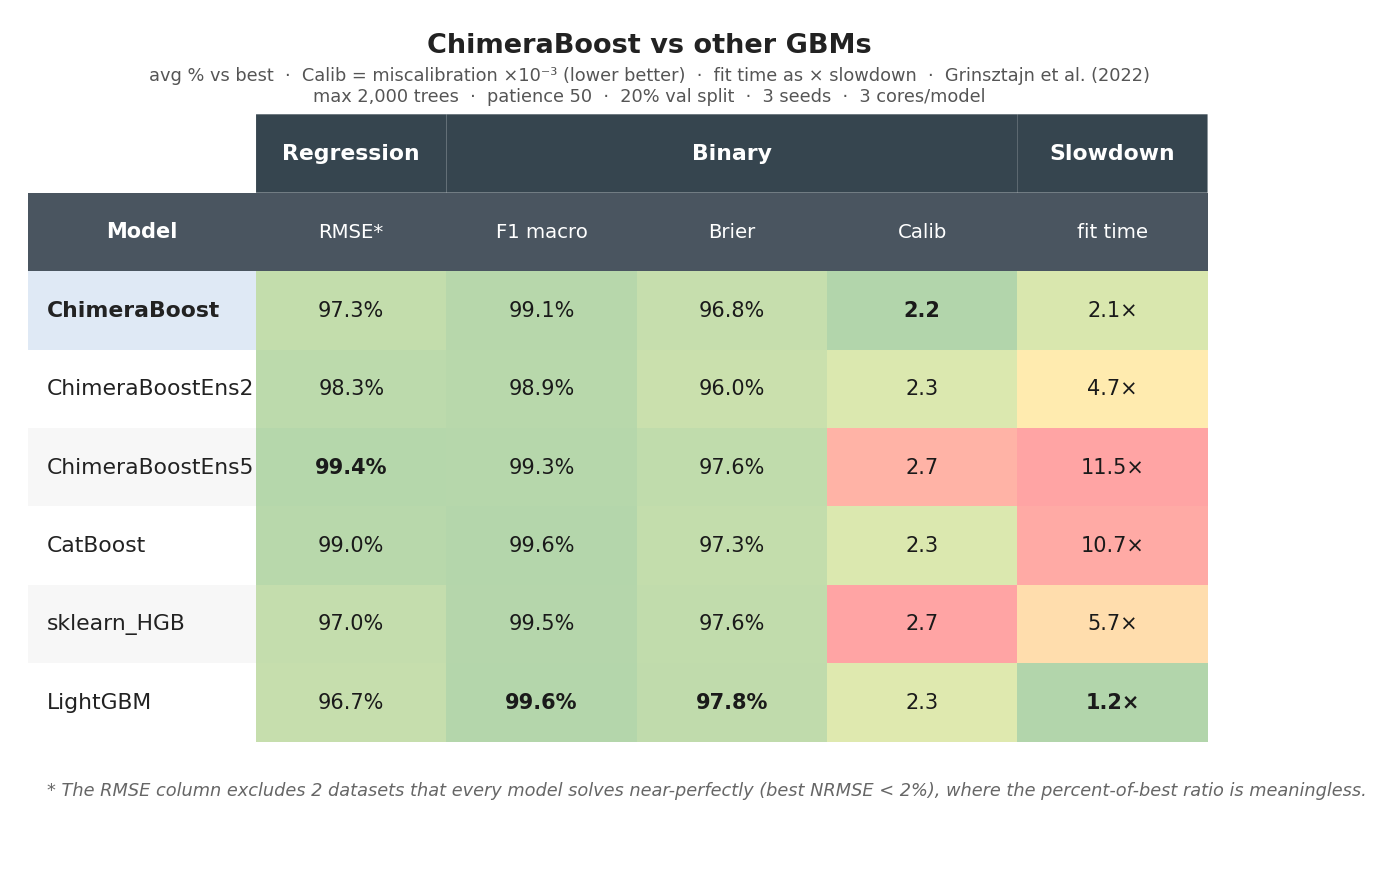
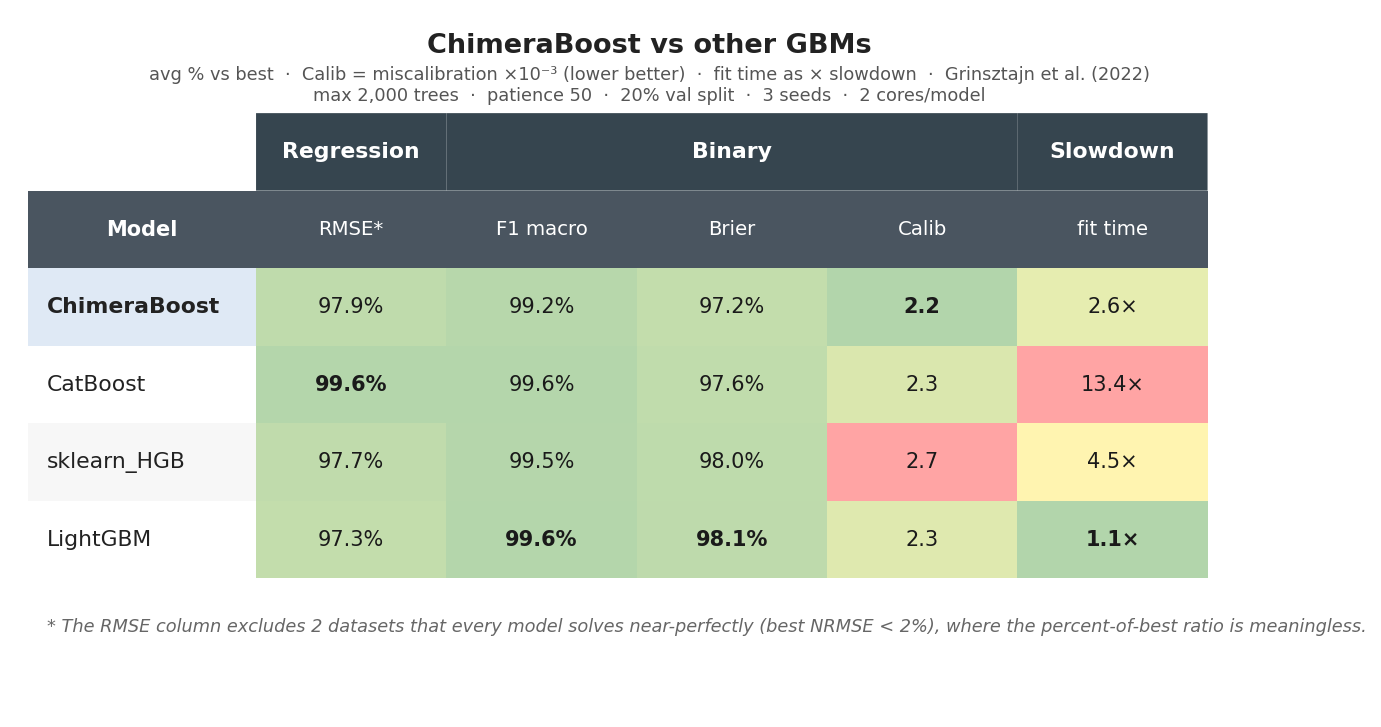
0.10.0: early-stopping defaults so out-of-box == benchmarked
Defaults now match the published Pareto exactly. Both estimators default to
early_stopping=True, iterations=2000 (was 500), validation_fraction=0.2 (was
0.1): a plain model.fit(X, y) carves an internal stratified holdout, early-stops
on it (patience 50), and keeps the best iteration — instead of building a fixed
500 trees with no stopping.

- benchmarks: the ChimeraBoost runner now calls the bare default estimator (no
  external eval_set) so it does its own internal split exactly like a user's
  .fit(X, y). bench == default by construction. Aggregate is unchanged from the
  prior baseline (RMSE 97.9%, F1 99.2%, Brier 97.2%); images regenerated.
- fix: early stopping degrades gracefully (silently disabled) when the data is
  too small to carve a valid stratified validation split, so early_stopping=True
  is safe as the default even on tiny / few-member-class datasets.
- version 0.10.0; sdist + wheel build clean and pass twine check; 41 tests pass.

diff --git a/chimeraboost/sklearn_api.py b/chimeraboost/sklearn_api.py
@@ -115,6 +115,11 @@ def _make_eval_split(X, y, validation_fraction, random_state,
         groups are kept intact across the split boundary.  For classification,
         ``StratifiedGroupKFold`` is used so class proportions are preserved;
         for regression ``GroupShuffleSplit`` is used.
+
+    Returns ``None`` when the data is too small to carve a valid validation set
+    (e.g. tiny ``n``, or a class with too few members for a stratified split).
+    The caller treats ``None`` as "train on all rows, early stopping disabled"
+    rather than crashing on a degenerate split.
     """
     from sklearn.model_selection import (
         ShuffleSplit,
@@ -123,37 +128,49 @@ def _make_eval_split(X, y, validation_fraction, random_state,
         StratifiedGroupKFold,
     )
 
-    if groups is not None:
-        groups = np.asarray(groups)
-        if stratify is not None:
-            # StratifiedGroupKFold approximates the desired val fraction via
-            # n_splits = round(1 / validation_fraction).
-            n_splits = max(2, round(1.0 / validation_fraction))
-            splitter = StratifiedGroupKFold(n_splits=n_splits)
-            train_idx, val_idx = next(
-                splitter.split(X, stratify, groups=groups)
-            )
-        else:
-            splitter = GroupShuffleSplit(
+    # Cheap size precheck: each side of the split needs at least one row per
+    # class (or >=2 rows for regression) for the holdout to be usable.
+    n = len(y)
+    min_per_side = len(np.unique(stratify)) if stratify is not None else 2
+    n_val = int(round(n * validation_fraction))
+    if n_val < min_per_side or (n - n_val) < min_per_side:
+        return None
+
+    try:
+        if groups is not None:
+            groups = np.asarray(groups)
+            if stratify is not None:
+                # StratifiedGroupKFold approximates the desired val fraction via
+                # n_splits = round(1 / validation_fraction).
+                n_splits = max(2, round(1.0 / validation_fraction))
+                splitter = StratifiedGroupKFold(n_splits=n_splits)
+                train_idx, val_idx = next(
+                    splitter.split(X, stratify, groups=groups)
+                )
+            else:
+                splitter = GroupShuffleSplit(
+                    n_splits=1,
+                    test_size=validation_fraction,
+                    random_state=random_state,
+                )
+                train_idx, val_idx = next(splitter.split(X, y, groups=groups))
+        elif stratify is not None:
+            splitter = StratifiedShuffleSplit(
                 n_splits=1,
                 test_size=validation_fraction,
                 random_state=random_state,
             )
-            train_idx, val_idx = next(splitter.split(X, y, groups=groups))
-    elif stratify is not None:
-        splitter = StratifiedShuffleSplit(
-            n_splits=1,
-            test_size=validation_fraction,
-            random_state=random_state,
-        )
-        train_idx, val_idx = next(splitter.split(X, stratify))
-    else:
-        splitter = ShuffleSplit(
-            n_splits=1,
-            test_size=validation_fraction,
-            random_state=random_state,
-        )
-        train_idx, val_idx = next(splitter.split(X))
+            train_idx, val_idx = next(splitter.split(X, stratify))
+        else:
+            splitter = ShuffleSplit(
+                n_splits=1,
+                test_size=validation_fraction,
+                random_state=random_state,
+            )
+            train_idx, val_idx = next(splitter.split(X))
+    except ValueError:
+        # Degenerate stratified split (e.g. a class with a single member).
+        return None
 
     return train_idx, val_idx
 
@@ -290,11 +307,11 @@ class ChimeraBoostRegressor(RegressorMixin, BaseEstimator):
     loss: "RMSE" (default), "MAE", or "Quantile". For "Quantile" pass the level
     via `alpha` (e.g. alpha=0.9 for the 90th-percentile predictor).
 
-    early_stopping : bool, default False
+    early_stopping : bool, default True
         Whether to use early stopping to terminate training when the validation
         score stops improving.  Requires ``early_stopping_rounds`` (defaults
         to 50 when early stopping is active but the param is None).
-    validation_fraction : float, default 0.1
+    validation_fraction : float, default 0.2
         Fraction of training data to hold out as a validation set when
         *early_stopping* is active and no explicit *eval_set* is passed.
         Ignored when an explicit *eval_set* is given to ``fit``.
@@ -308,14 +325,14 @@ class ChimeraBoostRegressor(RegressorMixin, BaseEstimator):
         When >1 and *thread_count* is None, numba threads are split among workers.
     """
 
-    def __init__(self, iterations=500, learning_rate=None, depth=6,
+    def __init__(self, iterations=2000, learning_rate=None, depth=6,
                  l2_leaf_reg=1.0, max_bins=128, subsample=1.0, colsample=1.0,
                  cat_smoothing=1.0, cat_n_permutations=4,
                  early_stopping_rounds=None,
                  loss="RMSE", alpha=0.5, min_child_weight=1.0, thread_count=None,
                  random_state=None, verbose=False, ordered_boosting=False,
                  cat_combinations=False, leaf_estimation_iterations=1,
-                 early_stopping=False, validation_fraction=0.1,
+                 early_stopping=True, validation_fraction=0.2,
                  n_ensembles=None, ensemble_n_jobs=1):
         self.iterations = iterations
         self.learning_rate = learning_rate
@@ -393,14 +410,18 @@ class ChimeraBoostRegressor(RegressorMixin, BaseEstimator):
 
         es_active = bool(self.early_stopping)
         if es_active and eval_set is None:
-            train_idx, val_idx = _make_eval_split(
+            split = _make_eval_split(
                 X, y, self.validation_fraction, self.random_state,
                 groups=groups, stratify=None,
             )
-            eval_set = (X[val_idx], y[val_idx])
-            X, y = X[train_idx], y[train_idx]
-            if sample_weight is not None:
-                sample_weight = sample_weight[train_idx]
+            if split is None:
+                es_active = False  # data too small to hold out a val set
+            else:
+                train_idx, val_idx = split
+                eval_set = (X[val_idx], y[val_idx])
+                X, y = X[train_idx], y[train_idx]
+                if sample_weight is not None:
+                    sample_weight = sample_weight[train_idx]
 
         # If early stopping is active but patience not explicitly set, use 50.
         # 50 beats 10 on 25/34 benchmark datasets (lr=0.1 keeps improving past a
@@ -457,11 +478,11 @@ class ChimeraBoostClassifier(ClassifierMixin, BaseEstimator):
     Automatically uses binary logloss for 2 classes and softmax multiclass for
     3+. `classes_` preserves the original label values.
 
-    early_stopping : bool, default False
+    early_stopping : bool, default True
         Whether to use early stopping.  The validation split is always
         stratified to preserve class proportions; when *groups* is passed,
         ``StratifiedGroupKFold`` is used instead.
-    validation_fraction : float, default 0.1
+    validation_fraction : float, default 0.2
         Fraction of training data held out for the automatic validation set.
         Ignored when an explicit *eval_set* is given to ``fit``.
     n_ensembles : int or None, default None
@@ -474,14 +495,14 @@ class ChimeraBoostClassifier(ClassifierMixin, BaseEstimator):
         When >1 and *thread_count* is None, numba threads are split among workers.
     """
 
-    def __init__(self, iterations=500, learning_rate=None, depth=6,
+    def __init__(self, iterations=2000, learning_rate=None, depth=6,
                  l2_leaf_reg=1.0, max_bins=128, subsample=1.0, colsample=1.0,
                  cat_smoothing=1.0, cat_n_permutations=4,
                  early_stopping_rounds=None,
                  min_child_weight=None, thread_count=None, random_state=None,
                  verbose=False, ordered_boosting=False,
                  cat_combinations=False, leaf_estimation_iterations=3,
-                 early_stopping=False, validation_fraction=0.1,
+                 early_stopping=True, validation_fraction=0.2,
                  n_ensembles=None, ensemble_n_jobs=1):
         self.iterations = iterations
         self.learning_rate = learning_rate
@@ -570,16 +591,20 @@ class ChimeraBoostClassifier(ClassifierMixin, BaseEstimator):
 
         es_active = bool(self.early_stopping)
         if es_active and eval_set is None:
-            train_idx, val_idx = _make_eval_split(
+            split = _make_eval_split(
                 X, y, self.validation_fraction, self.random_state,
                 groups=groups, stratify=y,  # always stratify for classification
             )
-            eval_set = (X[val_idx], y[val_idx])
-            X, y = X[train_idx], y[train_idx]
-            if sample_weight is not None:
-                sample_weight = sample_weight[train_idx]
-            self.classes_ = np.unique(y)
-            self.n_classes_ = self.classes_.size
+            if split is None:
+                es_active = False  # data too small to hold out a val set
+            else:
+                train_idx, val_idx = split
+                eval_set = (X[val_idx], y[val_idx])
+                X, y = X[train_idx], y[train_idx]
+                if sample_weight is not None:
+                    sample_weight = sample_weight[train_idx]
+                self.classes_ = np.unique(y)
+                self.n_classes_ = self.classes_.size
 
         es_rounds = self.early_stopping_rounds
         if es_active and es_rounds is None:

diff --git a/benchmarks/run_benchmarks.py b/benchmarks/run_benchmarks.py
@@ -389,7 +389,6 @@ PATIENCE = 50
 def _run_chimera(task, Xtr, ytr, Xte, yte, cat, threads, lr=None,
                  ordered_boosting=None, depth=6, subsample=1.0, mcw=None,
                  cat_combinations=False, leaf_estimation_iterations=None):
-    Xf, Xv, yf, yv = _val_split(Xtr, ytr, task, 0)
     t = time.time()
     Est = ChimeraBoostRegressor if task == "regression" else ChimeraBoostClassifier
     # None = use the class default. For ordered_boosting that's False (Reg) /
@@ -400,12 +399,18 @@ def _run_chimera(task, Xtr, ytr, Xte, yte, cat, threads, lr=None,
         kw["leaf_estimation_iterations"] = leaf_estimation_iterations
     if mcw is not None:
         kw["min_child_weight"] = mcw
+    # IMPORTANT: this measures OUT-OF-BOX DEFAULT behavior. We call fit(Xtr, ytr)
+    # with NO explicit eval_set, so ChimeraBoost performs its own internal
+    # early-stopping split (early_stopping=True, validation_fraction default) —
+    # exactly what a user gets from `ChimeraBoostX().fit(X, y)`. iterations and
+    # early_stopping_rounds come from the shared harness budget, which equals the
+    # class defaults for the headline run, so the benchmark == the default.
     m = Est(iterations=MAX_ITERS, early_stopping_rounds=PATIENCE,
             learning_rate=lr, depth=depth,
             subsample=subsample,
             cat_combinations=cat_combinations,
             thread_count=threads, random_state=0, **kw)
-    m.fit(Xf, yf, cat_features=cat, eval_set=(Xv, yv))
+    m.fit(Xtr, ytr, cat_features=cat)
     return _compute_metrics(task, yte, m, Xte), time.time() - t, m.best_iteration_
 
 

diff --git a/chimeraboost/__init__.py b/chimeraboost/__init__.py
@@ -20,4 +20,4 @@ __all__ = [
     "ChimeraBoostRegressor",
     "ChimeraBoostClassifier",
 ]
-__version__ = "0.9.2"
+__version__ = "0.10.0"

diff --git a/CHANGELOG.md b/CHANGELOG.md
@@ -5,6 +5,27 @@ The format follows [Keep a Changelog](https://keepachangelog.com/).
 
 ## [Unreleased]
 
+## [0.10.0] - 2026-06-02
+### Changed
+- **Out-of-the-box defaults now early-stop.** Both estimators default to
+  `early_stopping=True`, `iterations=2000` (was 500), and `validation_fraction=0.2`
+  (was 0.1). A plain `model.fit(X, y)` now carves an internal stratified holdout,
+  early-stops on it (patience 50), and uses the best iteration — instead of
+  building a fixed 500 trees with no stopping (which could overfit). This makes
+  the **out-of-box defaults match the benchmarked/Pareto configuration exactly**.
+  Pass `early_stopping=False` for the old fixed-iteration behavior; an explicit
+  `eval_set` still overrides the internal split.
+- **Benchmarks measure default behavior.** The ChimeraBoost benchmark runner now
+  calls the bare default estimator (no external `eval_set`), so it performs its
+  own internal early-stopping split exactly like a user's `.fit(X, y)`. The
+  published Pareto/summary/slowdown images are regenerated from this run.
+
+### Fixed
+- Early stopping degrades gracefully on tiny data: when the training set is too
+  small to carve a valid (stratified) validation split, `early_stopping` is
+  silently disabled for that fit instead of raising — so `early_stopping=True`
+  is safe as the new default even on very small or few-member-class datasets.
+
 ## [0.9.2] - 2026-06-02
 ### Performance
 - Vectorized categorical encoding (`factorize`, `_codes_for_transform`) via pandas,